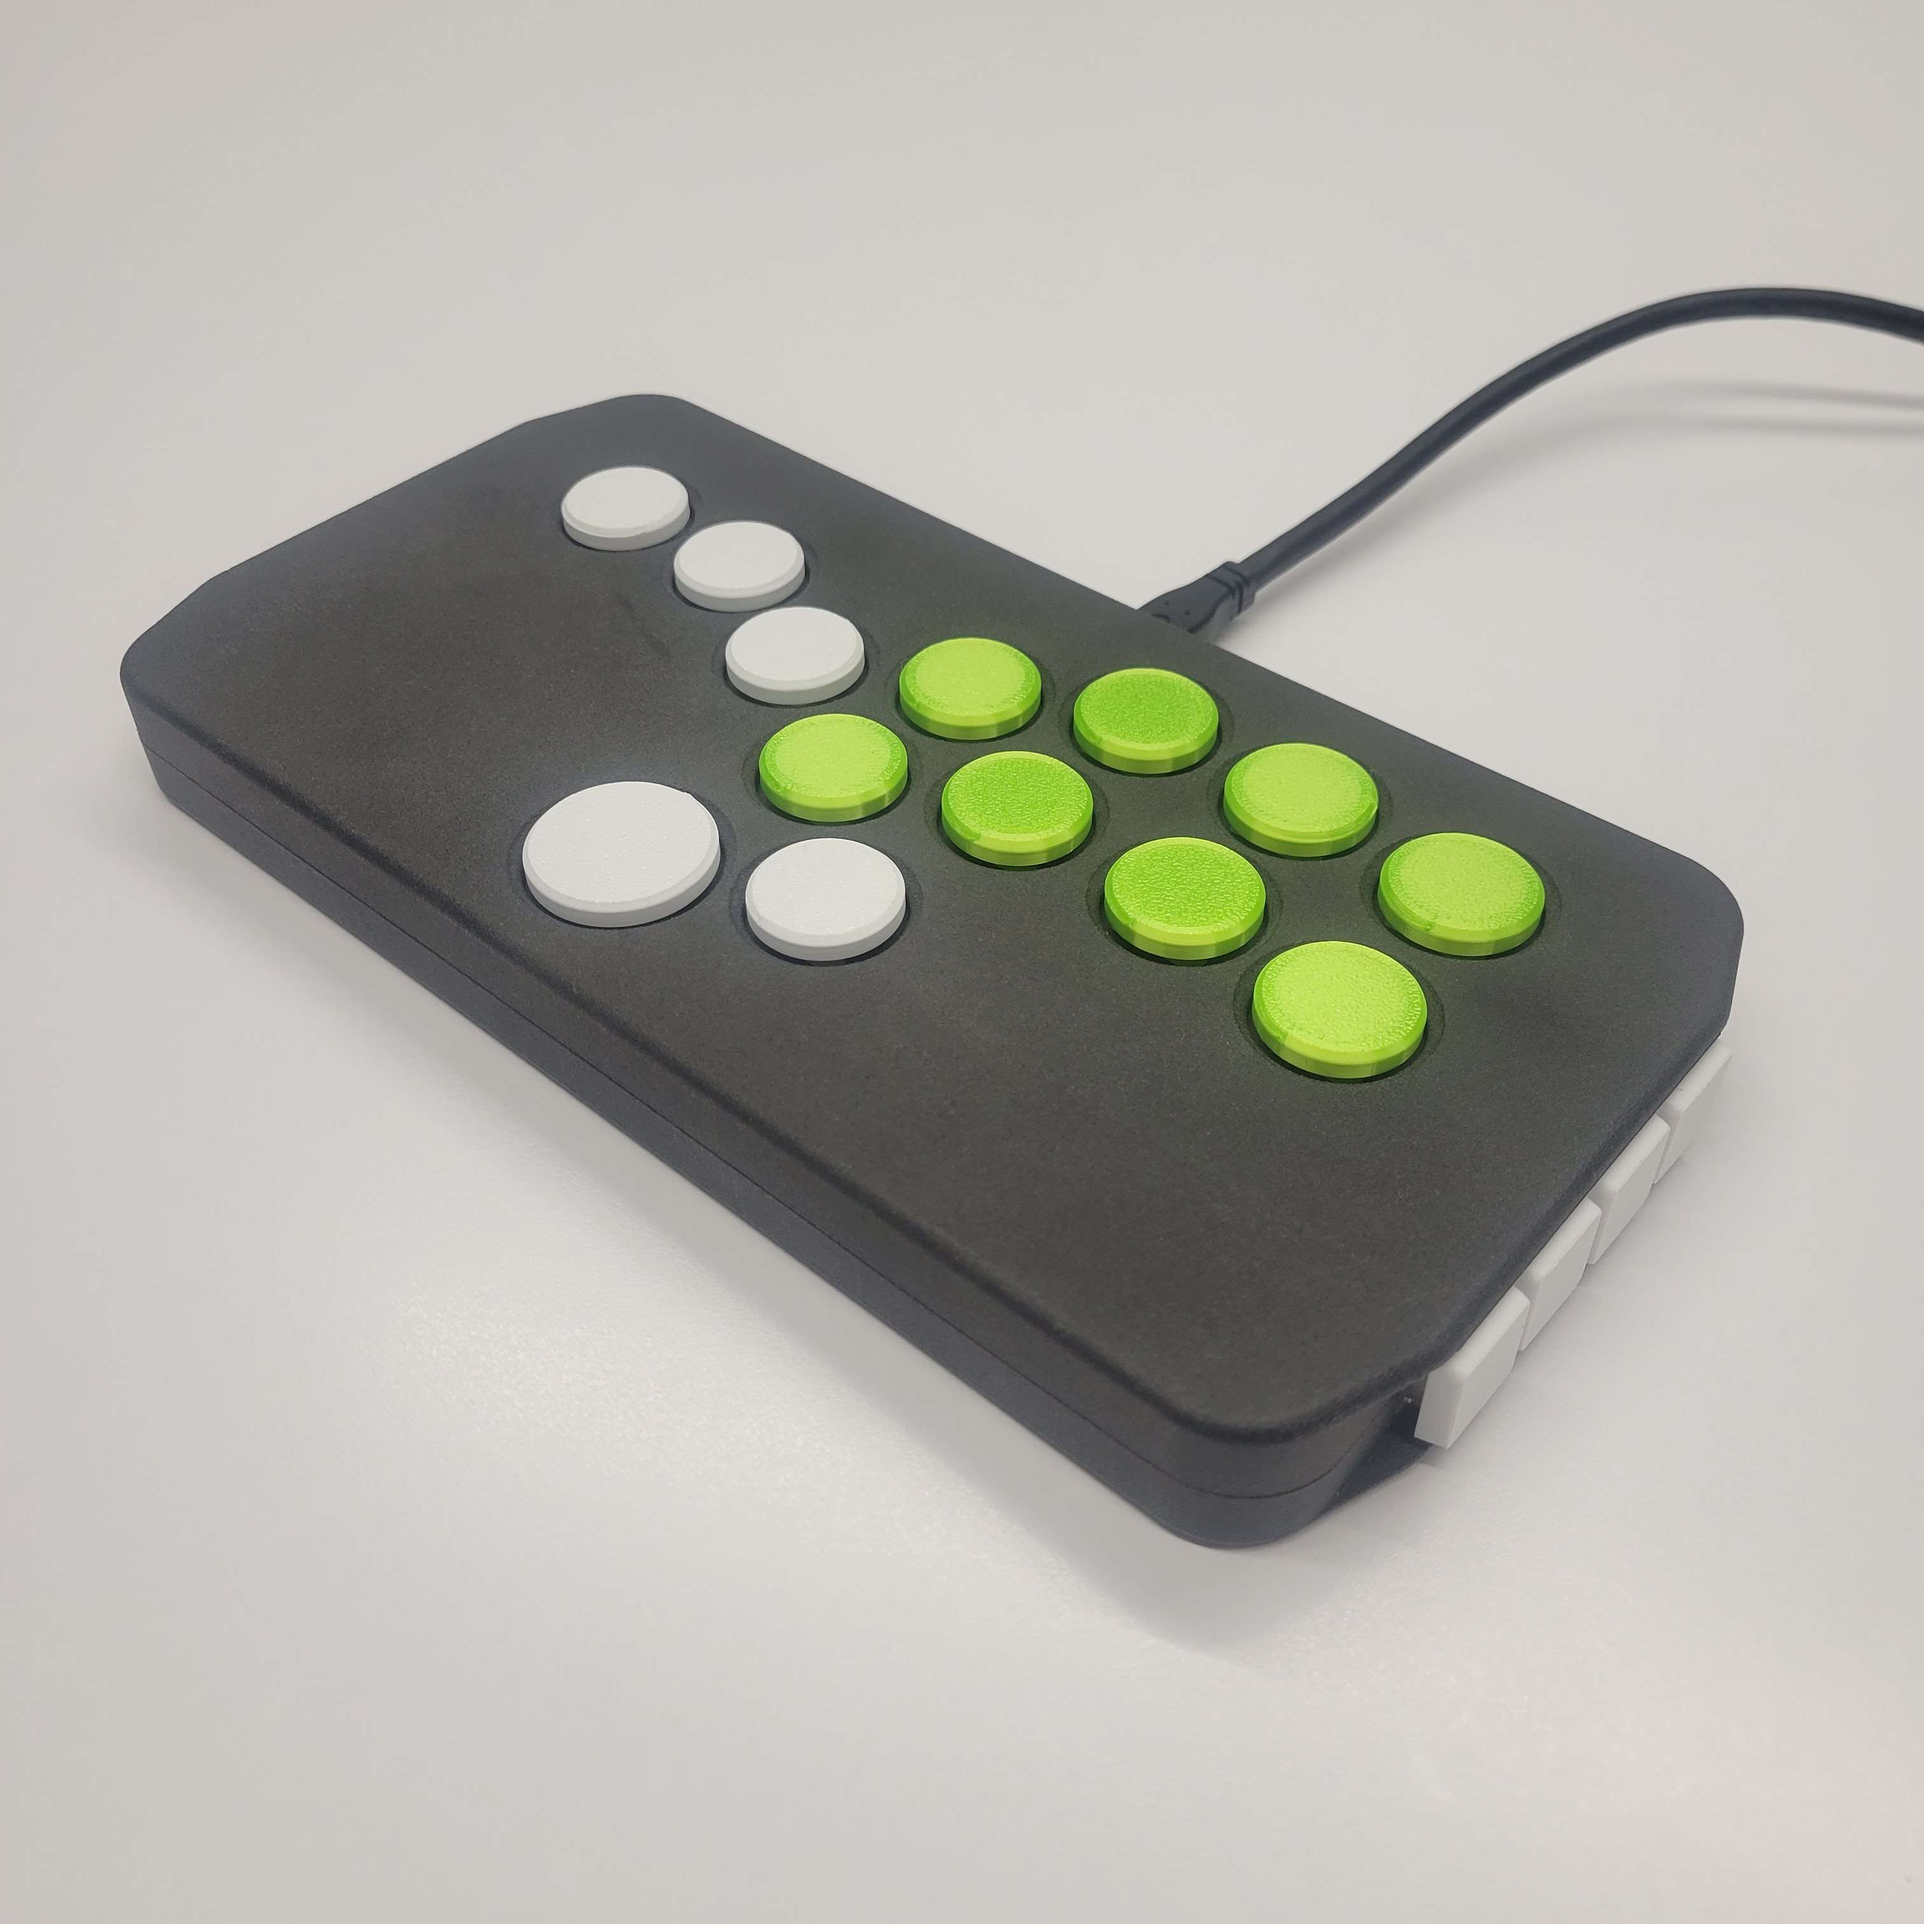
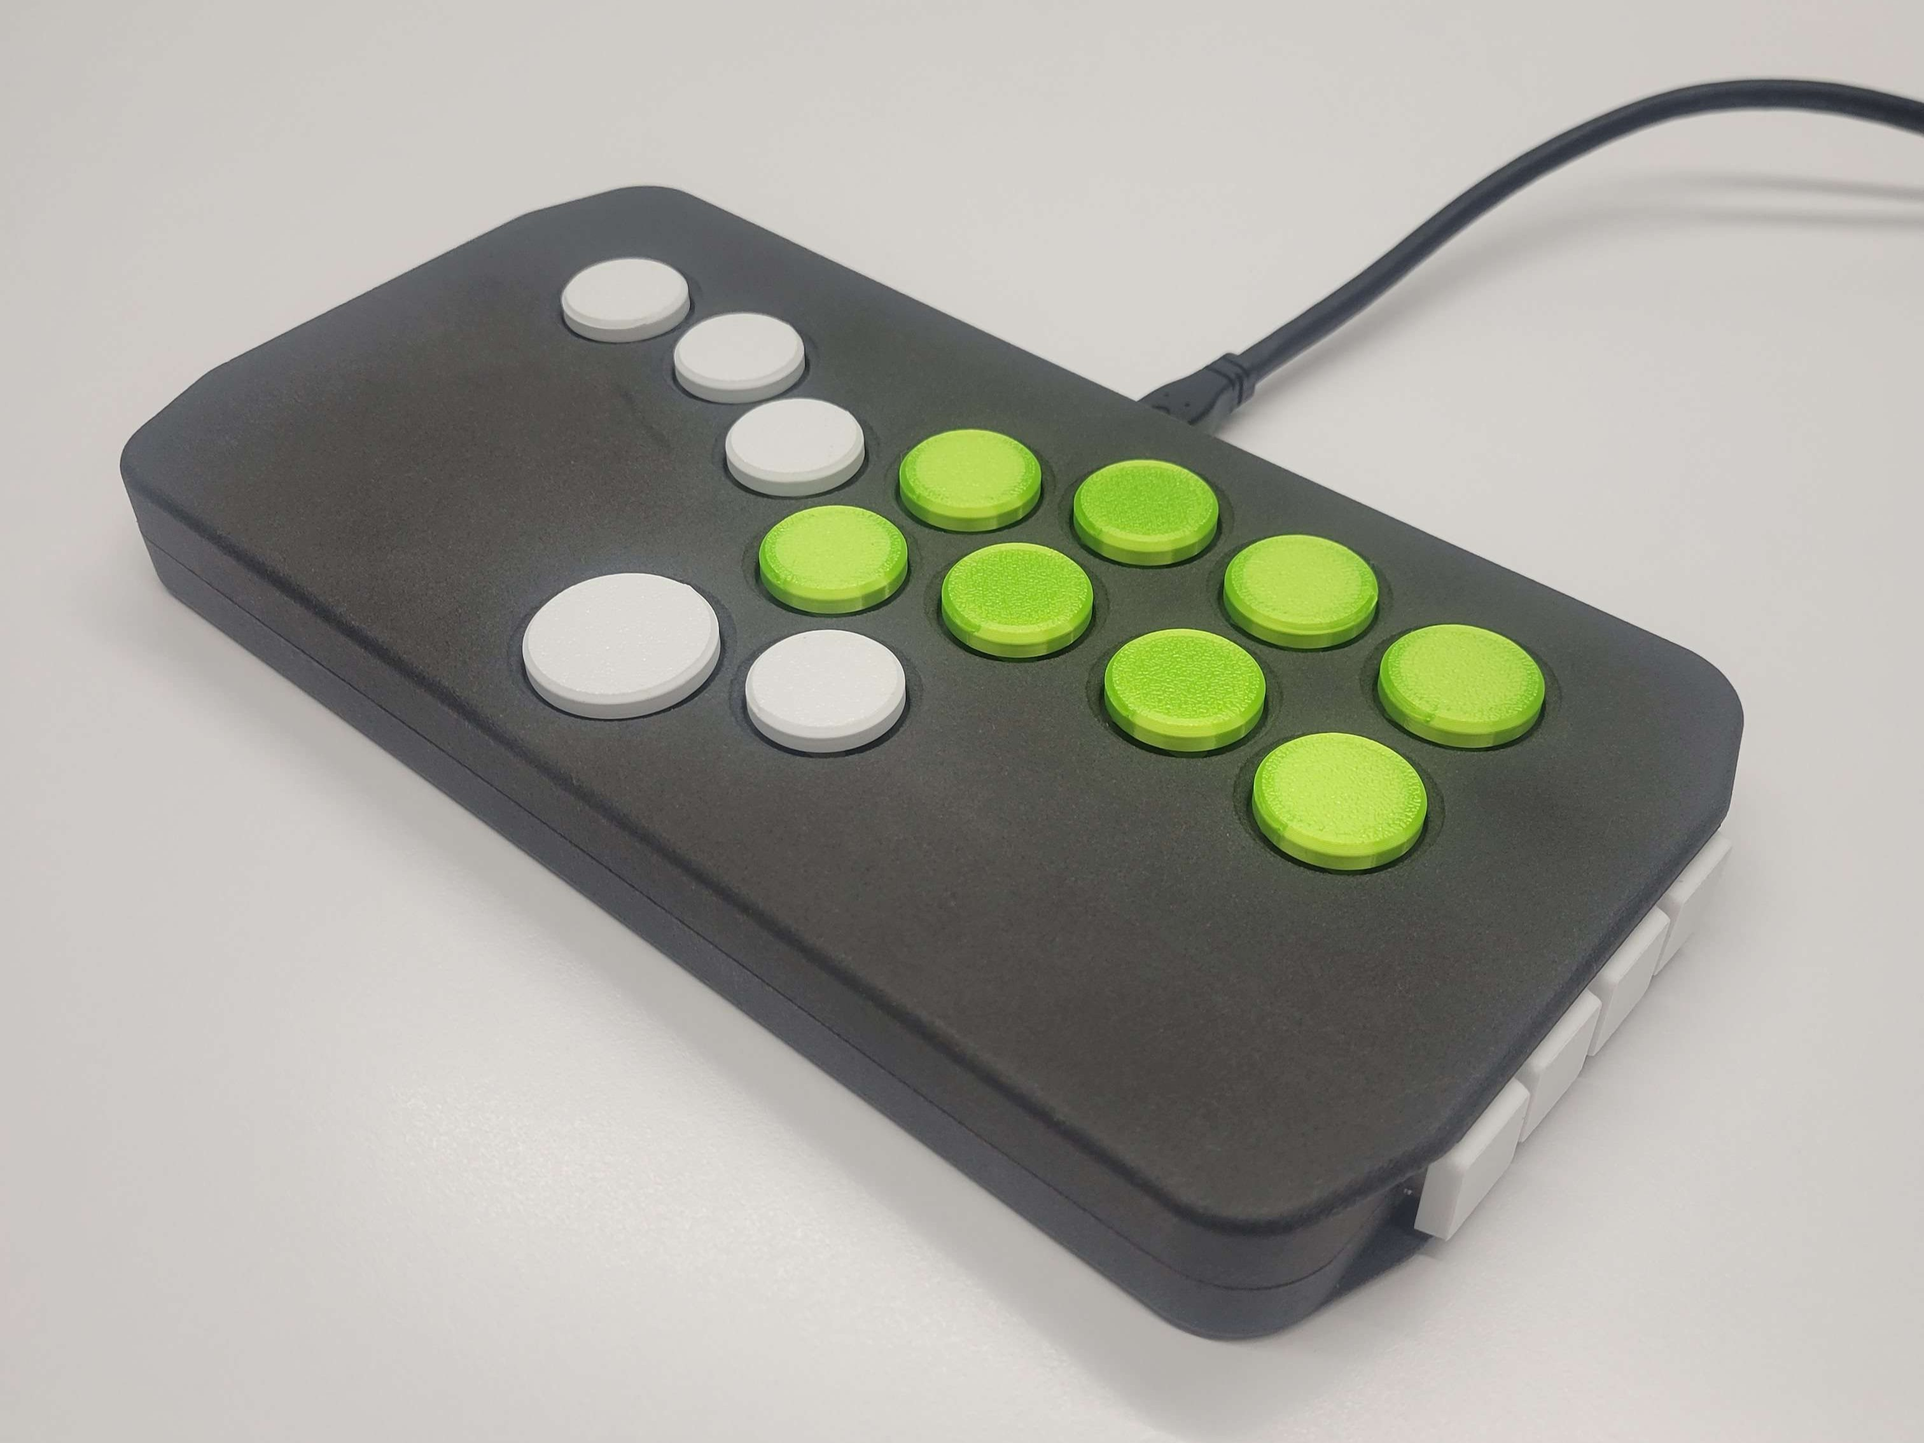
add to project info

diff --git a/_site/projects/1_DBF/index.html b/_site/projects/1_DBF/index.html
@@ -37,7 +37,7 @@
 
 
 
-  <meta property="article:published_time" content="2026-01-22T20:46:44-05:00">
+  <meta property="article:published_time" content="2026-01-22T20:50:20-05:00">
 
 
 

diff --git a/_site/projects/2_RHR/index.html b/_site/projects/2_RHR/index.html
@@ -37,7 +37,7 @@
 
 
 
-  <meta property="article:published_time" content="2026-01-22T20:46:44-05:00">
+  <meta property="article:published_time" content="2026-01-22T20:50:20-05:00">
 
 
 

diff --git a/_site/projects/3D-printed-widgets/index.html b/_site/projects/3D-printed-widgets/index.html
@@ -37,7 +37,7 @@
 
 
 
-  <meta property="article:published_time" content="2026-01-22T20:46:44-05:00">
+  <meta property="article:published_time" content="2026-01-22T20:50:20-05:00">
 
 
 

diff --git a/_site/projects/3_leverless-1/index.html b/_site/projects/3_leverless-1/index.html
@@ -37,7 +37,7 @@
 
 
 
-  <meta property="article:published_time" content="2026-01-22T20:46:44-05:00">
+  <meta property="article:published_time" content="2026-01-22T20:50:20-05:00">
 
 
 

diff --git a/_site/projects/4_leverless-2/index.html b/_site/projects/4_leverless-2/index.html
@@ -37,7 +37,7 @@
 
 
 
-  <meta property="article:published_time" content="2026-01-22T20:46:44-05:00">
+  <meta property="article:published_time" content="2026-01-22T20:50:20-05:00">
 
 
 

diff --git a/_site/projects/5_FEA/index.html b/_site/projects/5_FEA/index.html
@@ -37,7 +37,7 @@
 
 
 
-  <meta property="article:published_time" content="2026-01-22T20:46:44-05:00">
+  <meta property="article:published_time" content="2026-01-22T20:50:20-05:00">
 
 
 

diff --git a/_site/projects/6_autoshrink/index.html b/_site/projects/6_autoshrink/index.html
@@ -37,7 +37,7 @@
 
 
 
-  <meta property="article:published_time" content="2026-01-22T20:46:44-05:00">
+  <meta property="article:published_time" content="2026-01-22T20:50:20-05:00">
 
 
 

diff --git a/_site/projects/7_lifecycle-tester/index.html b/_site/projects/7_lifecycle-tester/index.html
@@ -37,7 +37,7 @@
 
 
 
-  <meta property="article:published_time" content="2026-01-22T20:46:44-05:00">
+  <meta property="article:published_time" content="2026-01-22T20:50:20-05:00">
 
 
 
